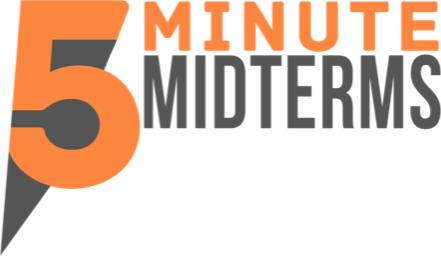
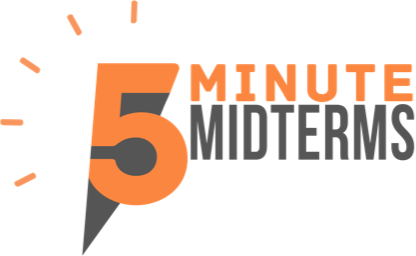
Put the clock ticks back, and fix what the phone got wrong
The lockup returns to the supplied art, ticks included. They cost a
quarter of its height, so it goes to 120px for MIDTERMS to read at the
size it did without them.

The 5 Calls credit now sits on the foot of MIDTERMS rather than the top
of the numeral, in the header and the footer alike. Both are placed off
the same two variables — the lockup's height and the credit's — with the
62.9% measured from the far right of the art, where only the wordmark
reaches and the numeral's tail cannot skew the reading.

On a phone the week strip wrapped two-up into four rows and pushed the
page's opening line below the fold. It becomes one row that scrolls,
fading out at the right to say there is more, and starting on the week
being read rather than at week one. Scroll padding keeps the first cell
on the page's own inset: snap points align to the snapport, which starts
at the padding edge, so without it the inset is scrolled away.

The nudge link comes out of the header at that width, being a second ask
for the signup band further down the same page.

Both email fields gain autocomplete="email", which is what iOS and
Android read to offer an address; type and name alone only get you the
right keyboard.

diff --git a/layouts/partials/midterms-page.html b/layouts/partials/midterms-page.html
@@ -168,7 +168,7 @@
       <header class="mt-header">
         <div class="mt-brand">
           <img class="mt-logo" src="{{ site.BaseURL }}images/midterms/lockup.png"
-               alt="5 Minute Midterms" width="441" height="256" />
+               alt="5 Minute Midterms" width="416" height="256" />
           {{- partial "midterms-by.html" . }}
         </div>
         <nav class="mt-nav">
@@ -190,7 +190,7 @@
               </select>
             </span>
           {{- end }}
-          <a href="#remind" class="mt-pill">{{ $d.nav.nudge }}</a>
+          <a href="#remind" class="mt-pill mt-nav__nudge">{{ $d.nav.nudge }}</a>
         </nav>
       </header>
 
@@ -299,7 +299,8 @@
                     target="popupwindow"
                     onsubmit="window.open('https://buttondown.com/5calls?tag=midterms', 'popupwindow')">
                 <label class="visually-hidden" for="mt-signup-email">Email address</label>
-                <input id="mt-signup-email" name="email" type="email" placeholder="{{ $zero.signup.placeholder }}" />
+                <input id="mt-signup-email" name="email" type="email" autocomplete="email" inputmode="email" autocapitalize="off" spellcheck="false"
+                       placeholder="{{ $zero.signup.placeholder }}" />
                 <input type="hidden" name="tag" value="midterms" />
                 <button type="submit" class="mt-pill mt-pill--solid">{{ $zero.signup.cta }}</button>
               </form>
@@ -457,7 +458,8 @@
               target="popupwindow"
               onsubmit="window.open('https://buttondown.com/5calls?tag=midterms', 'popupwindow')">
           <label class="visually-hidden" for="mt-email">Email address</label>
-          <input id="mt-email" name="email" type="email" placeholder="{{ $rem.placeholder }}" />
+          <input id="mt-email" name="email" type="email" autocomplete="email" inputmode="email" autocapitalize="off" spellcheck="false"
+                 placeholder="{{ $rem.placeholder }}" />
           <input type="hidden" name="tag" value="midterms" />
           <button type="submit">{{ $rem.cta }}</button>
         </form>
@@ -500,8 +502,8 @@
 
       <footer class="mt-footer">
         <div class="mt-brand mt-brand--small">
-          <img class="mt-logo mt-logo--small" src="{{ site.BaseURL }}images/midterms/lockup.png"
-               alt="5 Minute Midterms" width="441" height="256" />
+          <img class="mt-logo" src="{{ site.BaseURL }}images/midterms/lockup.png"
+               alt="5 Minute Midterms" width="416" height="256" />
           {{- partial "midterms-by.html" . }}
         </div>
         <div class="mt-footer__links">
@@ -934,6 +936,15 @@
         renderStrip();
         renderPreviewDone();
         if (modal && select) applyShareState(select.value);
+
+        // On a narrow screen the strip scrolls sideways; start it on the week
+        // being read rather than at week one.
+        var strip = document.querySelector(".mt-strip");
+        var selected = document.querySelector(".mt-strip__item--selected");
+        if (strip && selected && strip.scrollWidth > strip.clientWidth) {
+          // block:"nearest" so bringing it into view cannot scroll the page.
+          selected.scrollIntoView({ inline: "center", block: "nearest" });
+        }
       })();
     </script>
   </body>

diff --git a/assets/sass/midterms.scss b/assets/sass/midterms.scss
@@ -262,14 +262,24 @@ body {
   }
 }
 
-// The page's own mark, with the 5 Calls credit beside it.
+// The page's own mark, with the 5 Calls credit beside it. The lockup's height
+// is a variable because the credit is placed off it: the 5 Calls mark sits on
+// the bottom of MIDTERMS, which is 62.9% of the way down the art, measured off
+// the far right column where only the wordmark reaches.
 .mt-brand {
+  --logo-h: 120px;
+  --credit-h: 24px;
+  --midterms-bottom: 0.629;
+
   display: flex;
   flex-wrap: wrap;
   gap: 16px;
   align-items: center;
 
   &--small {
+    --logo-h: 80px;
+    --credit-h: 17px;
+
     gap: 12px;
   }
 }
@@ -277,8 +287,9 @@ body {
 .mt-by {
   display: flex;
   gap: 7px;
-  // Sits against the top of the lockup rather than its middle.
+  // Its foot lands on the foot of MIDTERMS, in the header and the footer alike.
   align-self: flex-start;
+  margin-top: calc(var(--logo-h) * var(--midterms-bottom) - var(--credit-h));
   align-items: center;
   font-size: 14px;
   color: rgba($ink, 0.6);
@@ -289,7 +300,7 @@ body {
     // glyphs edge to edge, so it reads larger than a same-height line of type:
     // this sits between the MIDTERMS line and the full two-line block.
     width: auto;
-    height: 24px;
+    height: var(--credit-h);
     filter: grayscale(1);
     opacity: 0.7;
   }
@@ -300,13 +311,7 @@ body {
   }
 
   .mt-brand--small & {
-    // The footer credit centres against its mark; only the header one sits high.
-    align-self: center;
     font-size: 13px;
-
-    img {
-      height: 17px;
-    }
   }
 }
 
@@ -315,11 +320,7 @@ body {
 // size in a shorter box.
 .mt-logo {
   width: auto;
-  height: 88px;
-
-  &--small {
-    height: 60px;
-  }
+  height: var(--logo-h);
 }
 
 .mt-state-toggle {
@@ -1138,9 +1139,42 @@ body {
   }
 }
 
-@media (max-width: 520px) {
+// Wrapped two-up, eight weeks push the page's own opening line below the fold.
+// So on a phone the strip becomes one row that scrolls, fading out at the right
+// to say there is more of it.
+@media (max-width: 640px) {
+  .mt-strip {
+    flex-wrap: nowrap;
+    overflow-x: auto;
+    scroll-snap-type: x proximity;
+    // Without this the snapport starts at the padding edge, so the first cell
+    // snaps flush to the screen and the page's own inset disappears.
+    scroll-padding-left: $inset;
+    scrollbar-width: none;
+    -webkit-mask-image: linear-gradient(to right, #000 calc(100% - 44px), transparent);
+    mask-image: linear-gradient(to right, #000 calc(100% - 44px), transparent);
+
+    &::-webkit-scrollbar {
+      display: none;
+    }
+  }
+
   .mt-strip__item {
-    flex: 1 1 calc(50% - 6px);
+    flex: 0 0 auto;
+    width: 33vw;
+    max-width: 148px;
+    scroll-snap-align: start;
+
+    &--selected {
+      width: 62vw;
+      max-width: 260px;
+    }
+  }
+
+  // The nudge is a second ask for the signup band further down the page, and
+  // it crowds the header at this width.
+  .mt-nav__nudge {
+    display: none;
   }
 
   .mt-counts {
